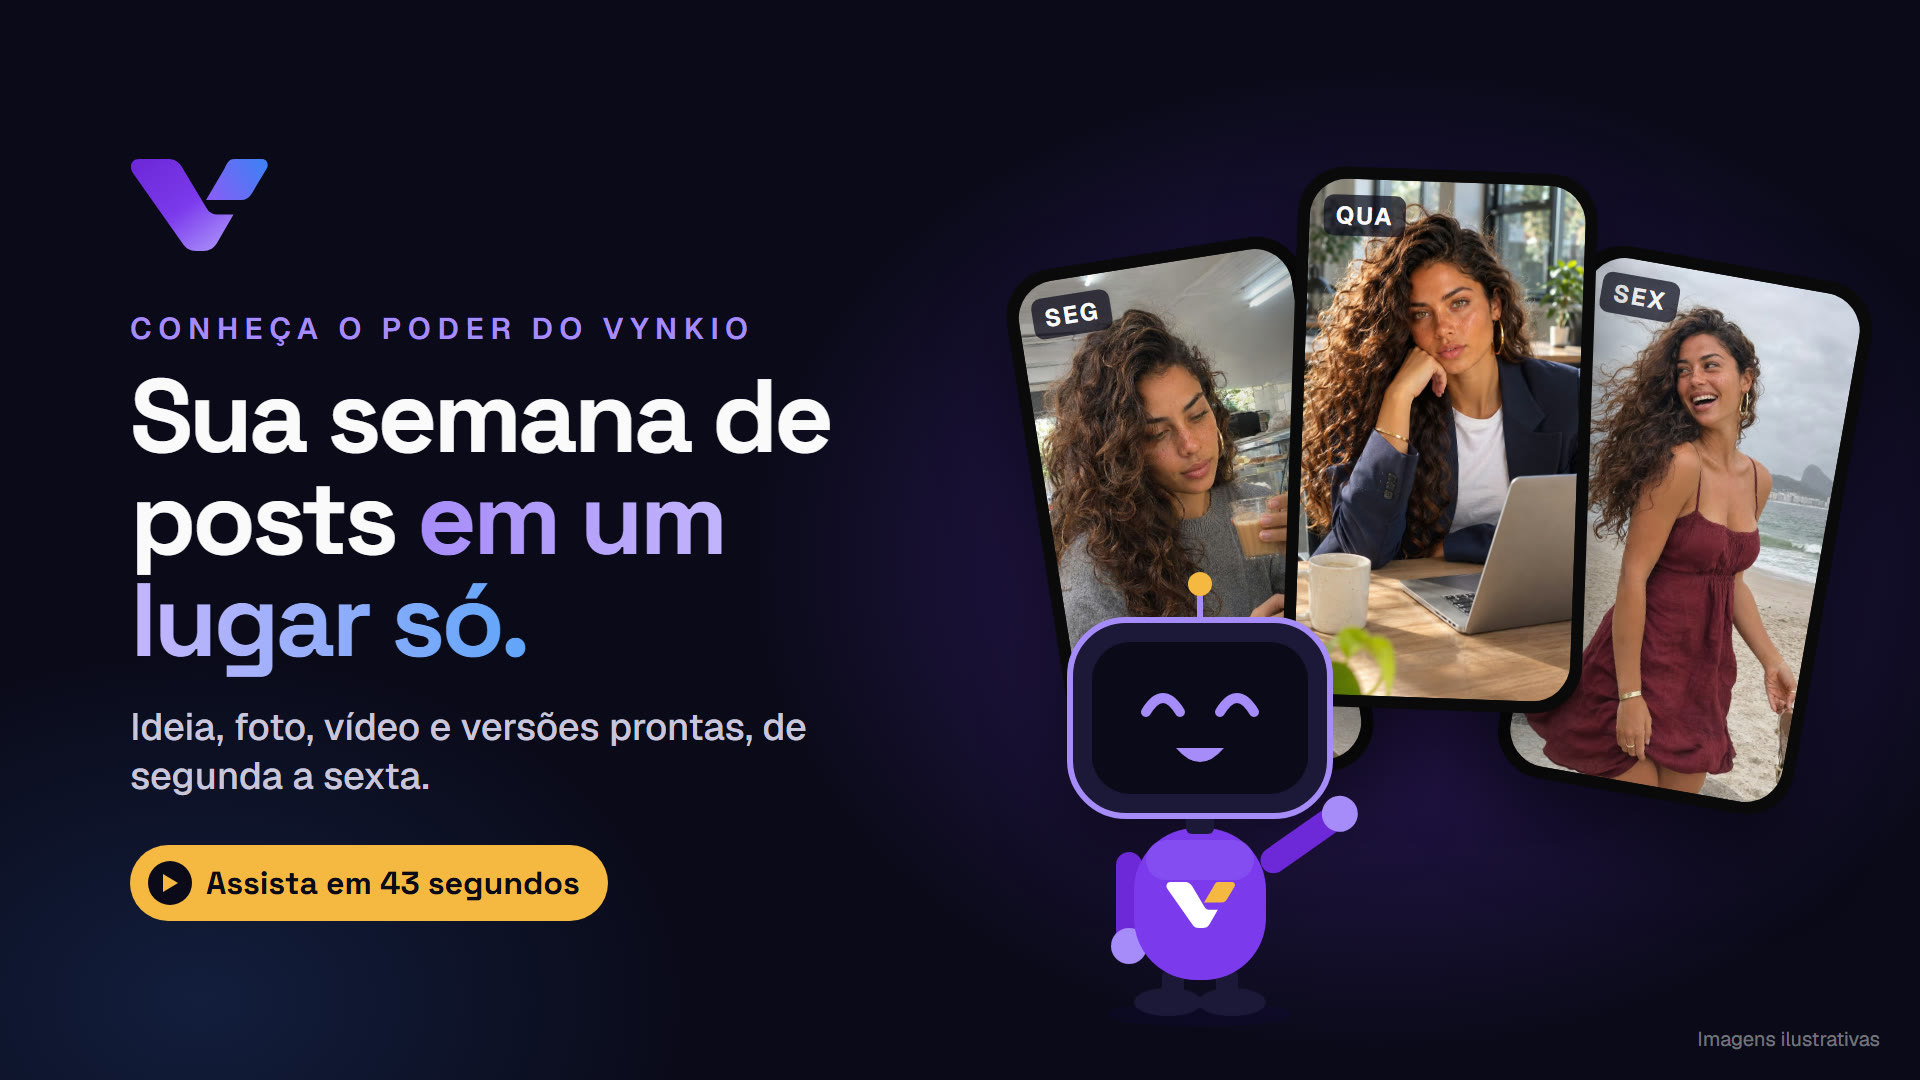
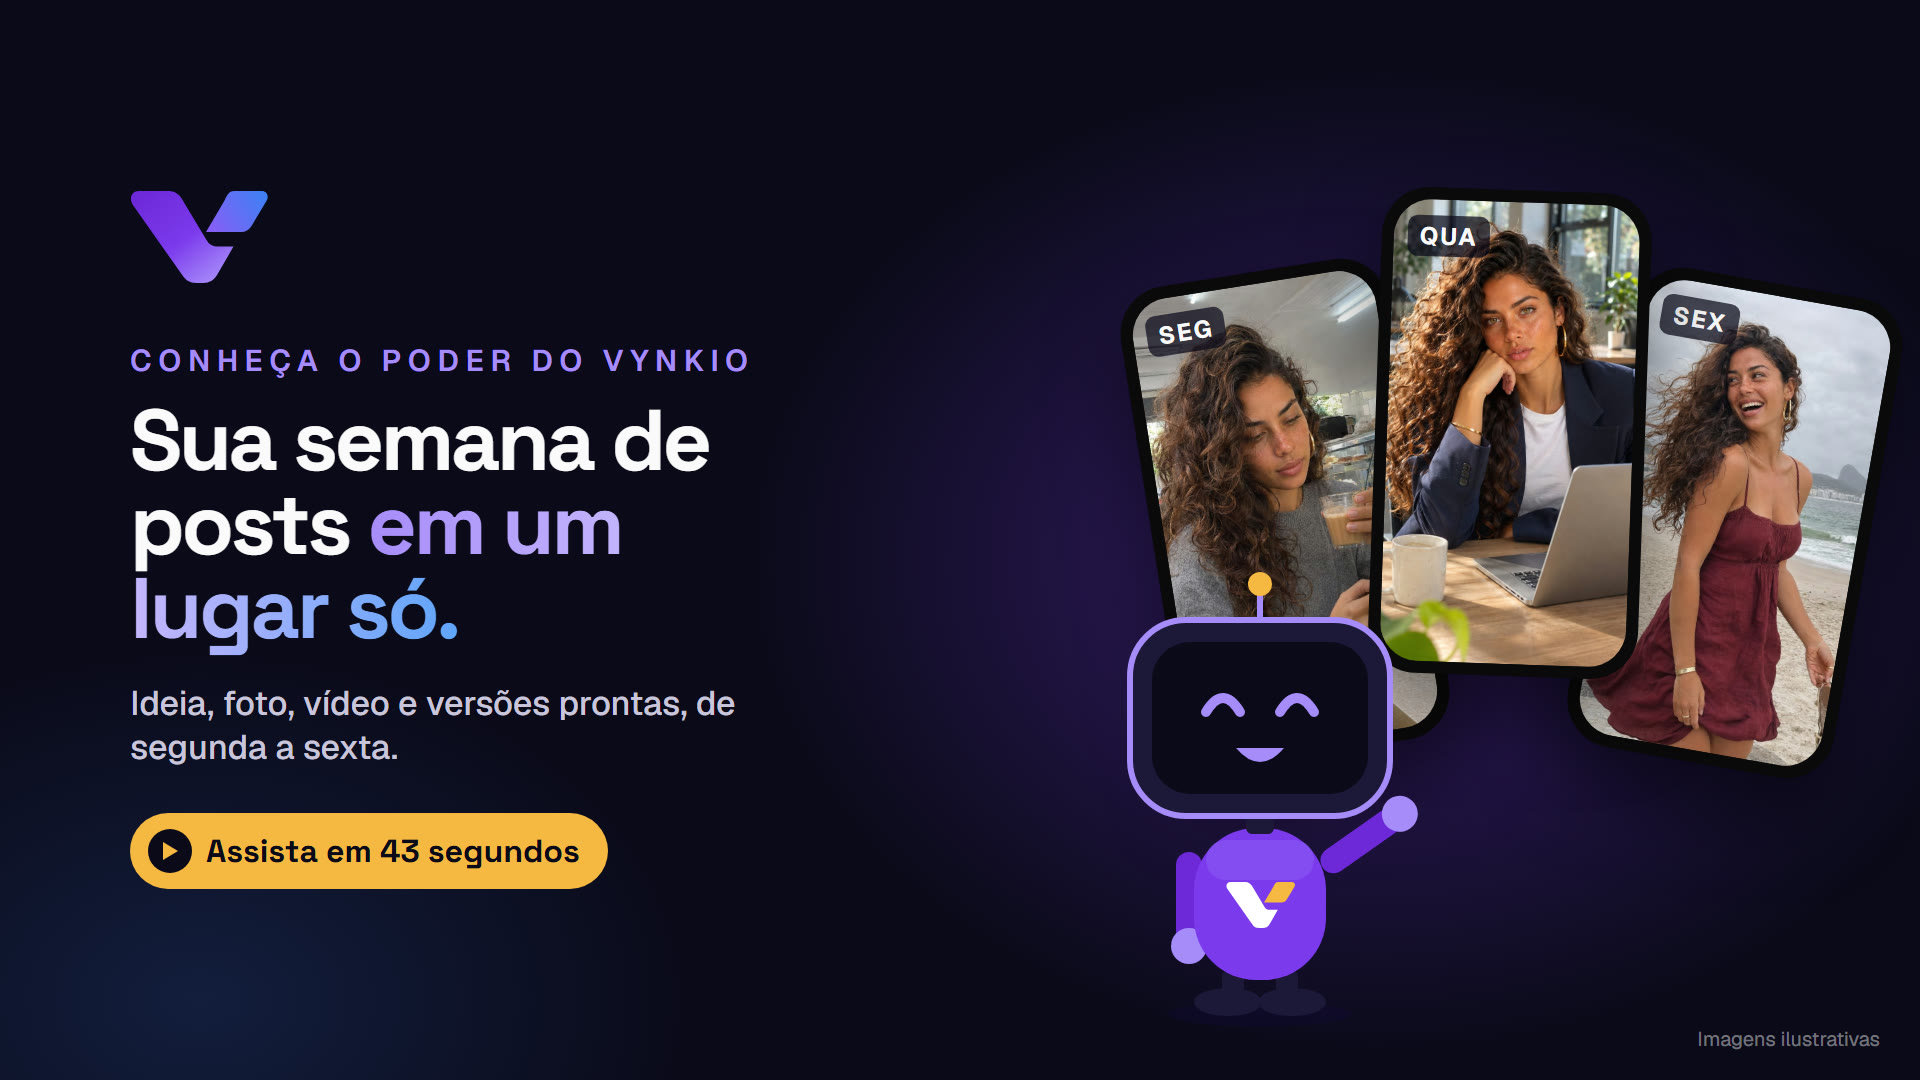
fix(landing): keep the video play button off the cover text on mobile

Changed region(s): [[0.5, 0.1528, 1.0, 0.9472], [0.0625, 0.1222, 0.4375, 0.8556]]

diff --git a/src/landing/components/ShowcaseVideo.tsx b/src/landing/components/ShowcaseVideo.tsx
@@ -65,13 +65,13 @@ export function ShowcaseVideo({ src, poster, label, className, aspect = 'aspect-
           state === 'playing' ? 'opacity-0 hover:opacity-100 focus-visible:opacity-100' : 'opacity-100',
         )}
       >
-        <span className="grid size-16 place-items-center rounded-full bg-black/50 text-white ring-1 ring-white/20 backdrop-blur-md transition-transform duration-200 group-hover:scale-105">
+        <span className="grid size-12 place-items-center sm:size-16 rounded-full bg-black/50 text-white ring-1 ring-white/20 backdrop-blur-md transition-transform duration-200 group-hover:scale-105">
           {state === 'loading' ? (
-            <LoaderCircle className="size-6 animate-spin" aria-hidden="true" />
+            <LoaderCircle className="size-5 animate-spin sm:size-6" aria-hidden="true" />
           ) : playing ? (
-            <Pause className="size-6 fill-current" aria-hidden="true" />
+            <Pause className="size-5 fill-current sm:size-6" aria-hidden="true" />
           ) : (
-            <Play className="ml-1 size-6 fill-current" aria-hidden="true" />
+            <Play className="ml-1 size-5 fill-current sm:size-6" aria-hidden="true" />
           )}
         </span>
       </button>
